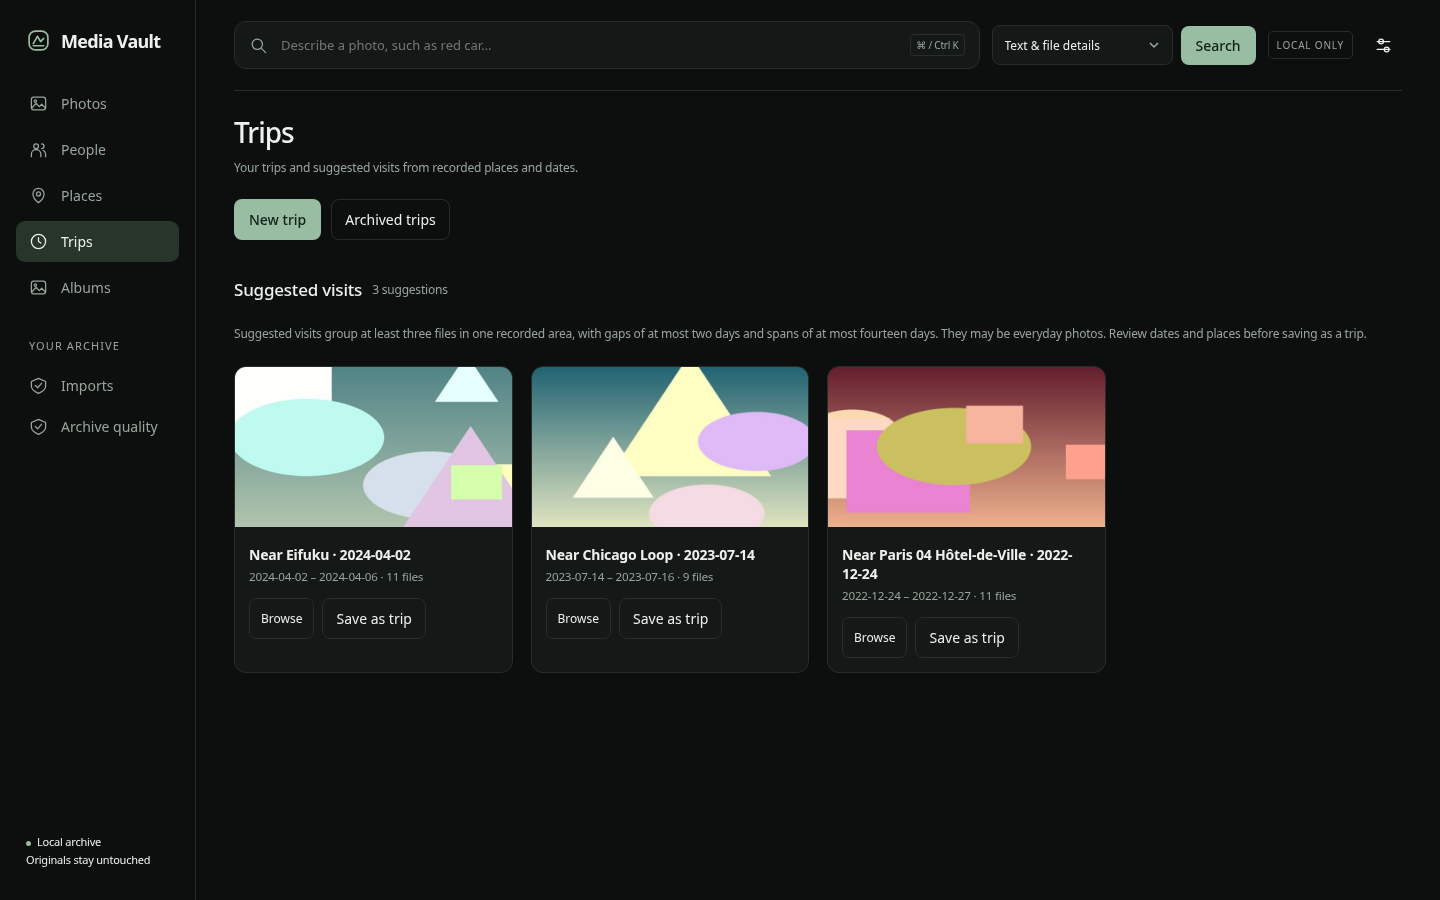
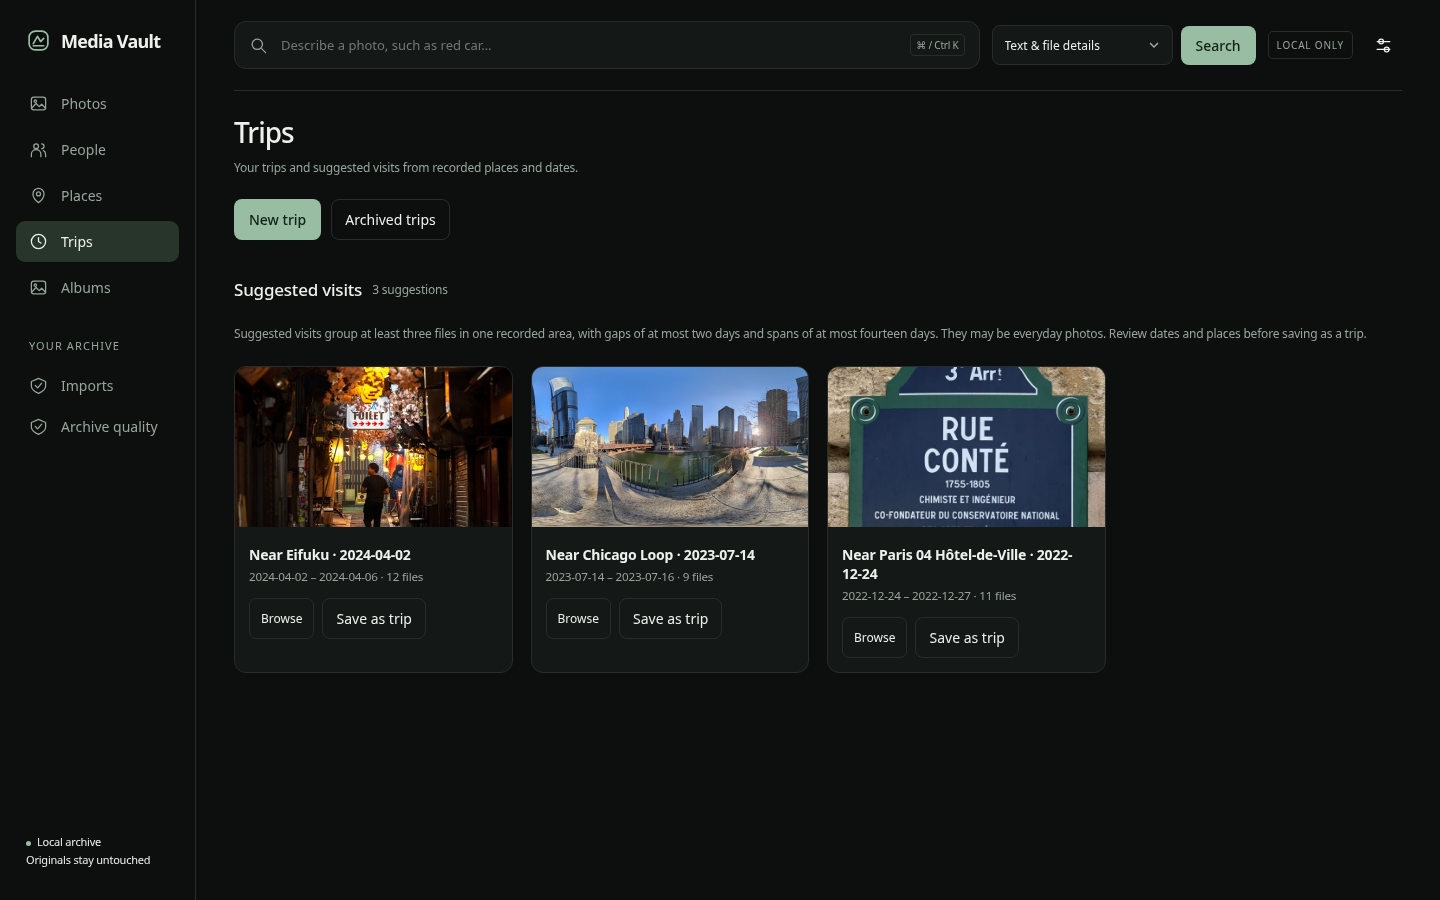
README screenshots from a CC0 photo test library instead of generated shapes

Changed region(s): [[0.1562, 0.4044, 0.7812, 0.5911]]

diff --git a/README.md b/README.md
@@ -9,8 +9,9 @@ are never moved, renamed or written to. No image ever leaves the machine.
 
 Optional local AI adds faces, text in photos, image search by description, video transcripts
 and scene previews. Each is a model you download once and run offline. Skip any of them and
-the rest of the vault works the same. The screenshots on this page come from a synthetic
-test library of generated images, which is why the "photos" are coloured shapes.
+the rest of the vault works the same. The screenshots on this page come from a test library
+of CC0 photos from Wikimedia Commons, stamped with made-up dates and GPS so the trips and
+places have something to show. None of it is anyone's real library.
 
 ## Set it up with an agent
 
